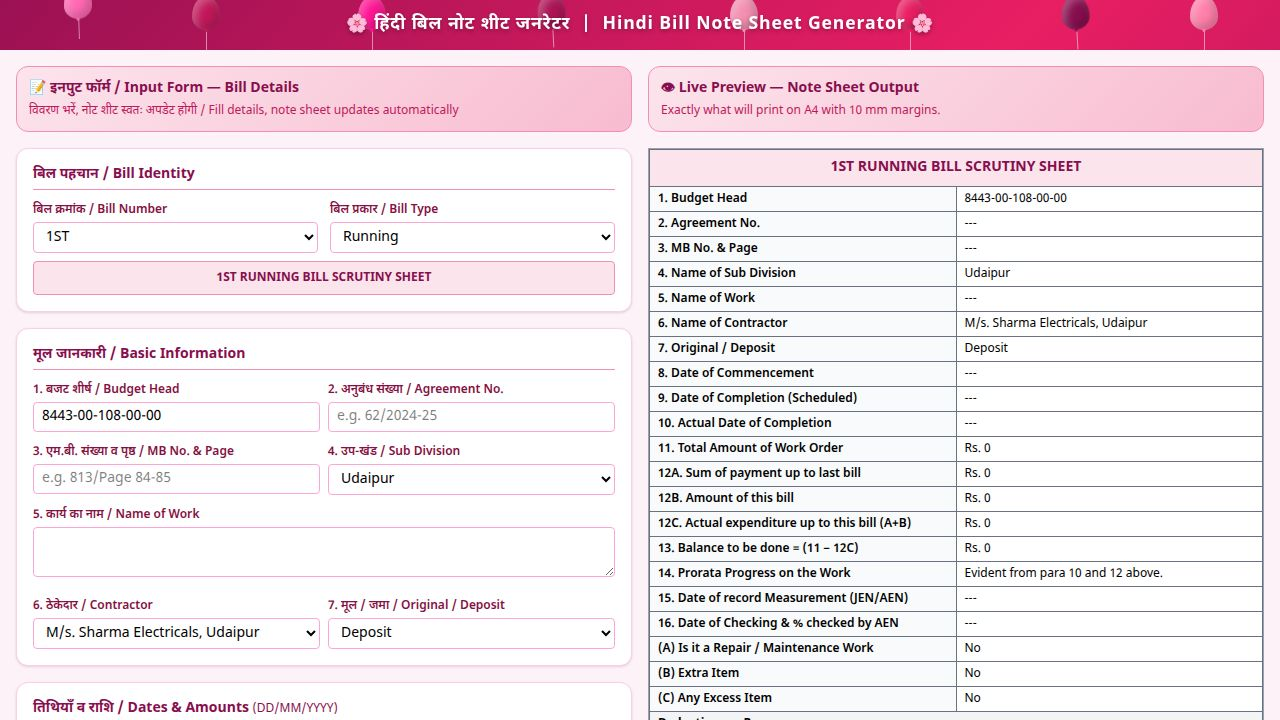
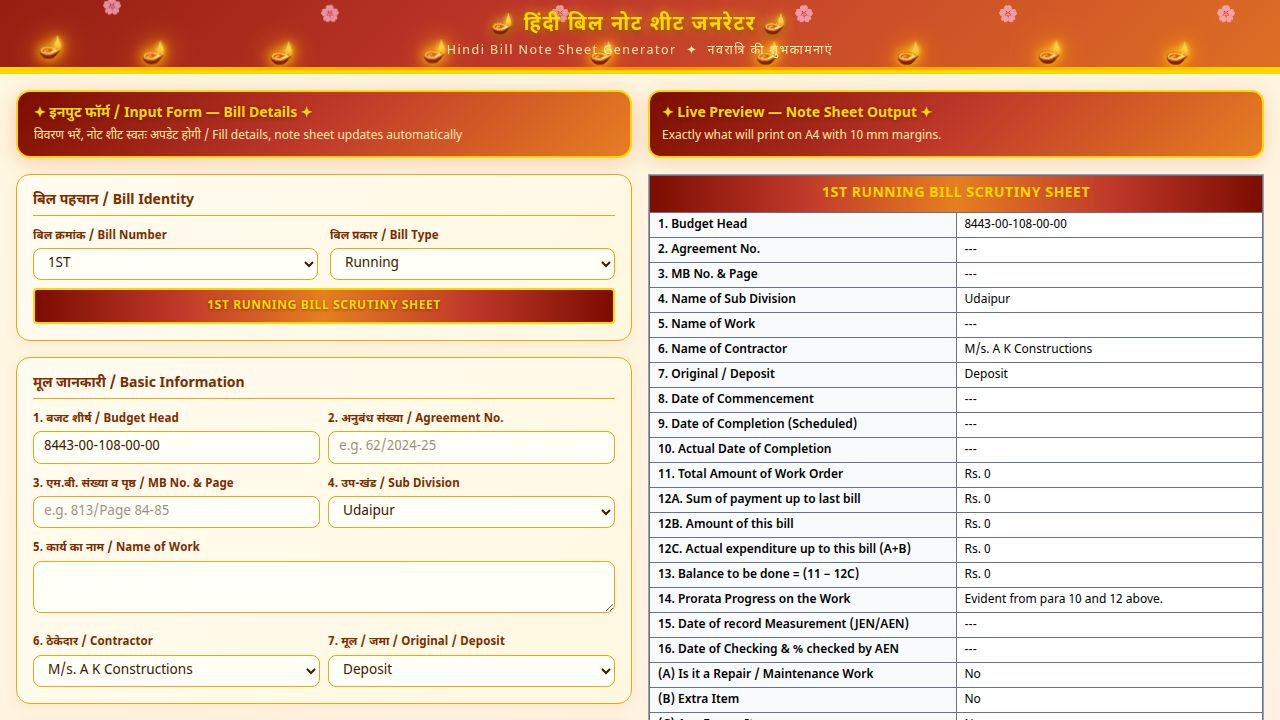
Update app styling and printing functionality for better user experience
Adjusted header colors to a Navratri theme and improved print functionality by increasing delay and adding auto-scale to ensure accurate PDF generation.

Replit-Commit-Author: Agent
Replit-Commit-Session-Id: 6dd3af59-0332-4413-b284-ac012e57618e
Replit-Commit-Checkpoint-Type: full_checkpoint
Replit-Commit-Event-Id: e28cf066-1aa4-425f-b499-3a6e0d1a8d96
Replit-Commit-Screenshot-Url: https://storage.googleapis.com/screenshot-production-us-central1/46dd0de5-208b-44fa-aea0-0fe80f3eb9c0/6dd3af59-0332-4413-b284-ac012e57618e/LPxk2hU
Replit-Helium-Checkpoint-Created: true

diff --git a/artifacts/hindi-bill/src/pages/BillForm.tsx b/artifacts/hindi-bill/src/pages/BillForm.tsx
@@ -546,7 +546,6 @@ export default function BillForm() {
     win.document.write(html);
     win.document.close();
     win.focus();
-    setTimeout(() => { win.print(); }, 600);
   }
 
   const inputCls   = "navratri-input";
@@ -648,7 +647,7 @@ export default function BillForm() {
 
             {/* Bill Number & Type */}
             <div className={sectionCls}>
-              <h3 className="font-bold text-sm mb-3 border-b pb-1" style={{ color: "#880e4f", borderColor: "#f48fb1" }}>बिल पहचान / Bill Identity</h3>
+              <h3 className="font-bold text-sm mb-3 border-b pb-1" style={{ color: "#7B2D00", borderColor: "#e6a817" }}>बिल पहचान / Bill Identity</h3>
               <div className="grid grid-cols-2 gap-3">
                 <div>
                   <label className={labelCls}>बिल क्रमांक / Bill Number</label>
@@ -671,7 +670,7 @@ export default function BillForm() {
 
             {/* Basic Info */}
             <div className={sectionCls}>
-              <h3 className="font-bold text-sm mb-3 border-b pb-1" style={{ color: "#880e4f", borderColor: "#f48fb1" }}>मूल जानकारी / Basic Information</h3>
+              <h3 className="font-bold text-sm mb-3 border-b pb-1" style={{ color: "#7B2D00", borderColor: "#e6a817" }}>मूल जानकारी / Basic Information</h3>
               <div className="grid grid-cols-1 gap-3">
                 <div className="grid grid-cols-2 gap-2">
                   <div>
@@ -727,7 +726,7 @@ export default function BillForm() {
 
             {/* Dates & Amounts */}
             <div className={sectionCls}>
-              <h3 className="font-bold text-sm mb-3 border-b pb-1" style={{ color: "#880e4f", borderColor: "#f48fb1" }}>तिथियाँ व राशि / Dates & Amounts <span className="font-normal text-xs">(DD/MM/YYYY)</span></h3>
+              <h3 className="font-bold text-sm mb-3 border-b pb-1" style={{ color: "#7B2D00", borderColor: "#e6a817" }}>तिथियाँ व राशि / Dates & Amounts <span className="font-normal text-xs">(DD/MM/YYYY)</span></h3>
               <div className="grid grid-cols-2 gap-3">
                 <div>
                   <label className={labelCls}>8. प्रारंभ तिथि / Date of Commencement</label>
@@ -769,7 +768,7 @@ export default function BillForm() {
 
             {/* Conditions */}
             <div className={sectionCls}>
-              <h3 className="font-bold text-sm mb-3 border-b pb-1" style={{ color: "#880e4f", borderColor: "#f48fb1" }}>शर्तें / Conditions & Flags</h3>
+              <h3 className="font-bold text-sm mb-3 border-b pb-1" style={{ color: "#7B2D00", borderColor: "#e6a817" }}>शर्तें / Conditions & Flags</h3>
               <div className="grid grid-cols-2 gap-3">
                 <div>
                   <label className={labelCls}>(A) मरम्मत/रखरखाव कार्य? / Repair/Maintenance?</label>
@@ -805,7 +804,7 @@ export default function BillForm() {
 
             {/* Deductions */}
             <div className={sectionCls}>
-              <h3 className="font-bold text-sm mb-3 border-b pb-1" style={{ color: "#880e4f", borderColor: "#f48fb1" }}>कटौतियाँ / Deductions</h3>
+              <h3 className="font-bold text-sm mb-3 border-b pb-1" style={{ color: "#7B2D00", borderColor: "#e6a817" }}>कटौतियाँ / Deductions</h3>
               <div className="grid grid-cols-1 gap-3">
                 <p className="text-xs text-gray-500">SD(10%), IT(2%), GST(2%), LC(1%) स्वचालित / auto-calculated. केवल Dep-V मैन्युअल।</p>
                 <div>
@@ -817,7 +816,7 @@ export default function BillForm() {
 
             {/* Other Details */}
             <div className={sectionCls}>
-              <h3 className="font-bold text-sm mb-3 border-b pb-1" style={{ color: "#880e4f", borderColor: "#f48fb1" }}>अन्य विवरण / Other Details</h3>
+              <h3 className="font-bold text-sm mb-3 border-b pb-1" style={{ color: "#7B2D00", borderColor: "#e6a817" }}>अन्य विवरण / Other Details</h3>
               <div className="grid grid-cols-1 gap-3">
                 <div>
                   <label className={labelCls}>17. EE द्वारा जाँची गई मदें / Selection Items Checked by EE</label>
@@ -843,17 +842,17 @@ export default function BillForm() {
             <button
               onClick={handlePrint}
               className="w-full font-bold py-3 rounded-xl text-sm transition-all mb-6 shadow-lg"
-              style={{ background: "linear-gradient(90deg, #880e4f, #e91e63, #880e4f)", backgroundSize: "200% auto", color: "#fff", animation: "shimmer 3s linear infinite", border: "none", cursor: "pointer" }}
+              style={{ background: "linear-gradient(90deg, #7B0D00, #c0392b, #e67e22, #c0392b, #7B0D00)", backgroundSize: "300% auto", color: "#FFD700", animation: "shimmer 4s linear infinite", border: "2px solid #FFD700", cursor: "pointer", textShadow: "0 1px 3px rgba(0,0,0,0.5)", letterSpacing: "0.03em" }}
             >
-              🖨 Print Note Sheet / Save PDF — {getPdfFilename()}
+              🖨 Print / Save PDF — {getPdfFilename()}
             </button>
           </div>
 
           {/* LIVE PREVIEW */}
           <div className="lg:w-1/2">
-            <div className="rounded-xl p-3 mb-4" style={{ background: "linear-gradient(135deg, #fce4ec, #f8bbd0)", border: "1px solid #f48fb1" }}>
-              <h2 className="font-bold text-sm" style={{ color: "#880e4f" }}>👁 Live Preview — Note Sheet Output</h2>
-              <p className="text-xs mt-1" style={{ color: "#c2185b" }}>Exactly what will print on A4 with 10 mm margins.</p>
+            <div className="rounded-xl p-3 mb-4" style={{ background: "linear-gradient(135deg, #7B0D00, #c0392b, #e67e22)", border: "2px solid #FFD700", boxShadow: "0 4px 20px rgba(200,80,0,0.20)" }}>
+              <h2 className="font-bold text-sm" style={{ color: "#FFD700", textShadow: "0 1px 4px rgba(0,0,0,0.4)" }}>✦ Live Preview — Note Sheet Output ✦</h2>
+              <p className="text-xs mt-1" style={{ color: "#FFEAA7" }}>Exactly what will print on A4 with 10 mm margins.</p>
             </div>
             <NoteSheetTable
               billTitle={billTitle}
@@ -886,7 +885,7 @@ function NoteSheetTable({ billTitle, outputRows, deductionRows, notePoints, sign
       <table className="w-full border-collapse">
         <thead>
           <tr>
-            <td colSpan={2} className="border border-gray-500 text-center font-bold py-2 text-sm" style={{ background: "#fce4ec", color: "#880e4f" }}>
+            <td colSpan={2} className="border border-gray-500 text-center font-bold py-2 text-sm" style={{ background: "linear-gradient(90deg,#7B0D00,#c0392b,#e67e22,#c0392b,#7B0D00)", color: "#FFD700", letterSpacing: "0.04em" }}>
               {billTitle}
             </td>
           </tr>
@@ -955,9 +954,10 @@ function buildPrintHtml(
   @page { size: A4 portrait; margin: 10mm; }
   * { box-sizing:border-box; margin:0; padding:0; }
   body { font-family:'Noto Sans Devanagari','Segoe UI',sans-serif; font-size:${baseFontPt}pt; color:#000; background:#fff; }
+  #wrap { transform-origin: top left; }
   table { width:100%; border-collapse:collapse; }
   td { border:1px solid #555; padding:${cellPad}; vertical-align:top; }
-  .h  { text-align:center; font-weight:700; font-size:${baseFontPt + 1}pt; background:#fce4ec; color:#880e4f; padding:4px; }
+  .h  { text-align:center; font-weight:700; font-size:${baseFontPt + 1}pt; background:#8B0000; color:#FFD700; padding:5px; letter-spacing:0.04em; }
   .l  { font-weight:600; background:#f5f5f5; width:50%; }
   .r  { width:50%; }
   .dh { font-weight:700; background:#ebebeb; }
@@ -966,8 +966,27 @@ function buildPrintHtml(
   li { margin-bottom:${totalItems <= 35 ? 3 : 2}px; line-height:${totalItems <= 40 ? 1.6 : 1.4}; }
   .sig { text-align:center; font-weight:600; margin-top:12px; }
 </style>
+<script>
+  function scaleAndPrint() {
+    var wrap = document.getElementById('wrap');
+    var pageH = 277;
+    var actualMM = wrap.scrollHeight * 0.2646;
+    if (actualMM > pageH) {
+      var s = pageH / actualMM;
+      wrap.style.transform = 'scale(' + s + ')';
+      wrap.style.width = Math.round(100 / s) + '%';
+    }
+    window.print();
+  }
+  if (document.fonts && document.fonts.ready) {
+    document.fonts.ready.then(function(){ setTimeout(scaleAndPrint, 200); });
+  } else {
+    window.onload = function(){ setTimeout(scaleAndPrint, 800); };
+  }
+</script>
 </head>
 <body>
+<div id="wrap">
 <table>
   <tr><td colspan="2" class="h">${billTitle}</td></tr>
   ${rowsHtml}
@@ -977,6 +996,7 @@ function buildPrintHtml(
 <div class="note-section">
   <ol>${notesHtml}</ol>
   <div class="sig">${signatoryName}</div>
+</div>
 </div>
 </body>
 </html>`;
